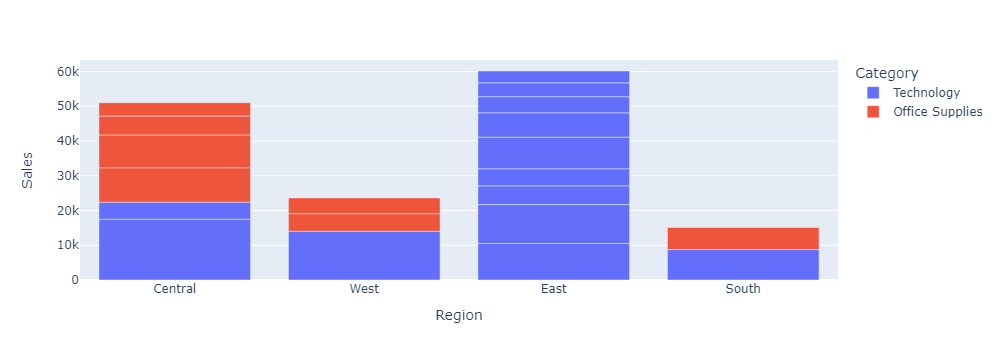
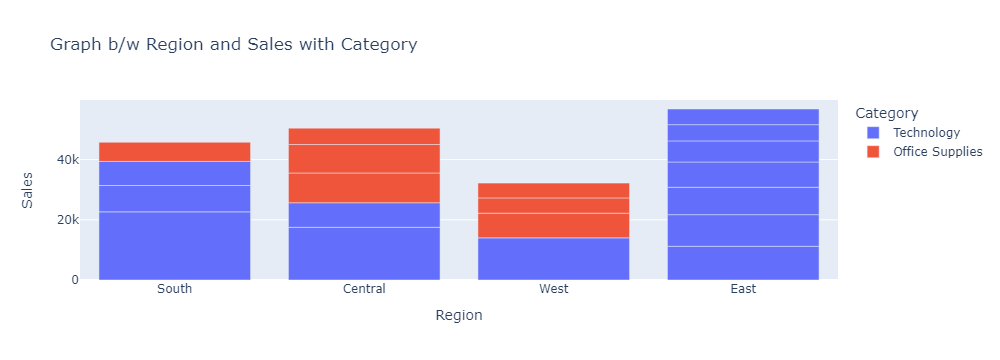
update

diff --git a/streamlit_lecture.py b/streamlit_lecture.py
@@ -1,0 +1,64 @@
+import streamlit as st
+import pandas as pd
+import plotly.express as px 
+import os
+
+st.title("My Dashboard")
+
+file = st.file_uploader("Upload file",type=({"csv","xlsx"}))
+dir = os.chdir(r"C:\Users\lenovo\Desktop\Data set")
+if file is not None:
+    st.write("Selected file Name: " + file.name)
+    df=pd.read_csv(file.name,encoding="ISO-8859-1")
+    st.write(df)
+else:
+    df = pd.read_csv(r"C:\Users\lenovo\Desktop\Data set\Superstore.csv",encoding="ISO-8859-1")
+    st.write(df)
+
+# col1,col2 = st.columns((2))
+
+# df["Order Date"] = pd.to_datetime(df["Order Date"],format='mixed')
+
+# date1 = pd.to_datetime(df["Order Date"]).min()
+# date2 = pd.to_datetime(df["Order Date"]).min()
+# st.write(date1)
+# st.write(date2)
+
+
+# with col1:
+#     startTime =pd.to_datetime(st.date_input("Start date"),date1)
+    
+
+# with col2:
+#     endTime = pd.to_datetime(st.date_input("end date"),date2)
+    
+
+## Sort values
+df.sort_values(['Profit','Sales'],axis=0,ascending=[False,False],inplace=True)
+
+### graph b/w Region and Sales with Category
+fig = px.bar(df.head(20),x='Region',y='Sales',color='Category',width=600,title='Graph b/w Region and Sales with Category')
+st.plotly_chart(fig)
+
+
+### Graph  b/w region and Sales with Profit
+fig = px.bar(df.head(20),x='Region',y='Sales',color='Profit',hover_data=['Category'],width=1000,title='Graph  b/w region and Sales with Profit')
+st.plotly_chart(fig)
+
+
+### graph order count v/s Sub Category
+fig = px.bar(df.head(100),x='Sub-Category',color='Category',width=700,title='Graph b/w order count and Sub-Category')
+st.plotly_chart(fig)
+
+
+
+### graph b/w Customer Name and Quantity with Profit
+fig = px.bar(df.head(20),x='Customer Name',y='Quantity',color='Profit',hover_data=['Discount','Category']
+             ,width=700,height=600,title='Graph b/w Customer Name and Quantity with Profit')
+st.plotly_chart(fig)
+
+
+
+### Graph b/w Sub Category and Profit
+fig = px.pie(df,names='Sub-Category',values='Profit',title='Graph b/w Sub Category and Profit')
+st.plotly_chart(fig)
